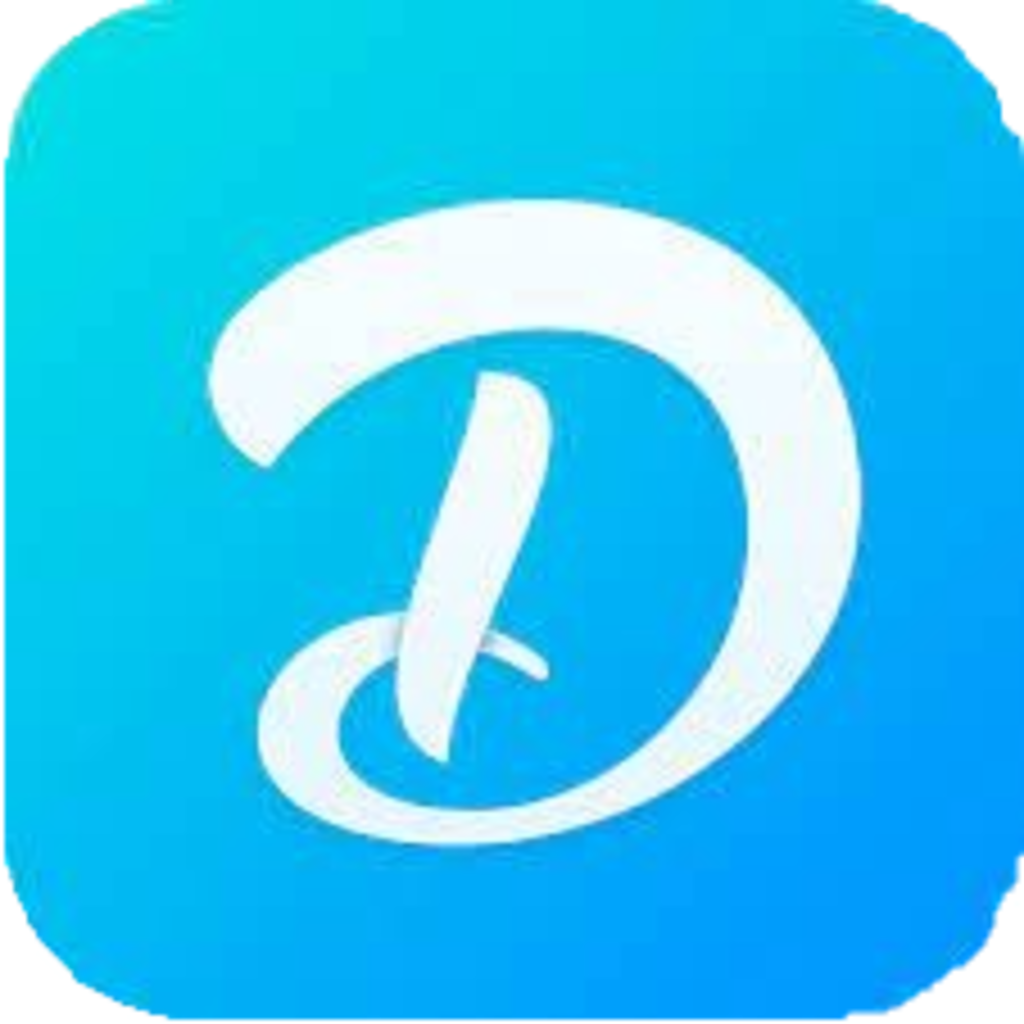
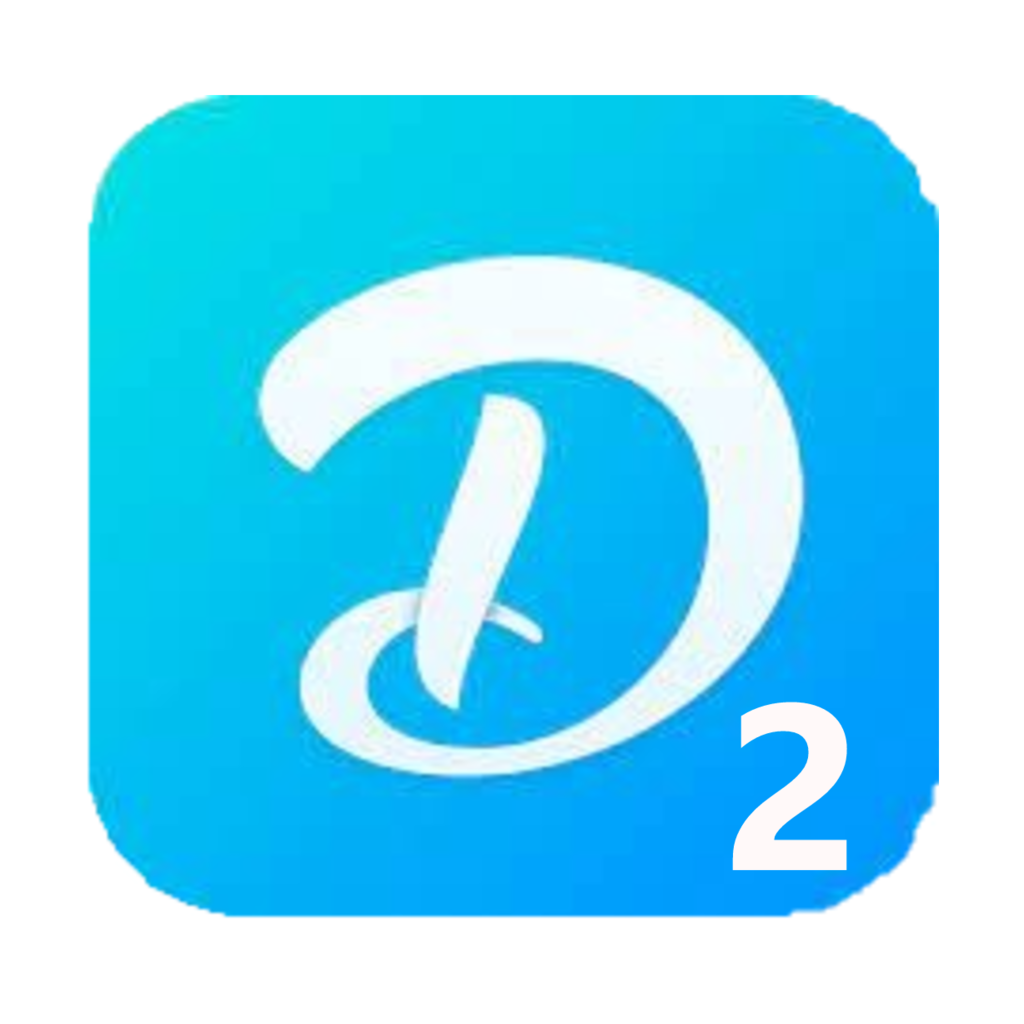
Made by Junaid

diff --git a/screens/HomeScreen.js b/screens/HomeScreen.js
@@ -1,5 +1,6 @@
 import React from 'react';
 import { View  , Text , TouchableOpacity , TextInput , StyleSheet} from 'react-native';
+import dictionary from '../database';
 
 class HomeScreen extends React.Component{
     constructor() {
@@ -14,51 +15,25 @@ class HomeScreen extends React.Component{
         };
       }
     
-      getWord=(word)=>{
-        var searchKeyword=word.toLowerCase()
-        var url = "https://rupinwhitehatjr.github.io/dictionary/" + searchKeyword + ".json"
-      
-        return fetch(url)
-        .then((data)=>{
-          if(data.status === 200)
-          {
-            return data.json();
-          }
-          else
-          {
-            return null;
-            alert("Please check your connection " + data.status);
-          }
-        })
-        .then((response)=>{
-    
-            var responseObject = response;
-           
-            if(responseObject)
-            {
-              var wordData = responseObject.definitions[0];
-            
-              var definition=wordData.description;
-              var lexicalCategory=wordData.wordtype;
-              this.setState({
-                "word" : this.state.text, 
-                "definition" :definition,
-                "lexicalCategory": lexicalCategory     
-                
-              });
-            }
-            else
-            {
-              this.setState({
-                "word" : this.state.text, 
-                "definition" :"Not Found",
-                
-              });
-    
-            }
-        
-        });
-      }
+      getWord = (text) => {
+        var text = text.toLowerCase();
+        try {
+          var word = dictionary[text]['word'];
+          var lexicalCategory = dictionary[text]['lexicalCategory'];
+          var definition = dictionary[text]['definition'];
+          this.setState({
+            word: word,
+            lexicalCategory: lexicalCategory,
+            definition: definition,
+          });
+        } catch (err) {
+          alert('Oh no!😓This word is not available in our dictionary ');
+          this.setState({
+            text: '',
+            isSearchPressed: false,
+          });
+        }
+      };
     render(){
     return(
         <View style={styles.container}>
@@ -92,7 +67,7 @@ class HomeScreen extends React.Component{
                       Word :{" "}
                     </Text>
                     <Text style={{fontSize:18 }}>
-                      {this.state.word}
+                      {this.state.text}
                     </Text>
                   </View>
                   <View style={styles.detailsContainer}>
@@ -119,7 +94,7 @@ class HomeScreen extends React.Component{
 
 
 <View style={styles.credits}>
-<Text>Dictionary App : Online Version</Text>
+<Text>Dictionary App : Offline Version</Text>
 <Text style={styles.creditsText}>App made by Junaid</Text>
 </View>
         </View>
@@ -161,7 +136,8 @@ const styles = StyleSheet.create({
     },
     outputContainer:{
         flex:0.7,
-        alignItems:'center'
+        alignItems:'center',
+        marginTop:2
       },
       detailsContainer:{
         flexDirection:'row',
@@ -173,7 +149,7 @@ const styles = StyleSheet.create({
         fontWeight:'bold'
       },
       credits:{
-        marginTop:370,
+        marginTop:230,
         alignItems:"center"
       },
       creditsText:{

diff --git a/database.js b/database.js
@@ -1,0 +1,59 @@
+const dictionary = {
+  "the" : {
+    "word" : "the",
+    "lexicalCategory":"Determiner",
+    "definition" : "denoting one or more people or things already mentioned or assumed to be common knowledge."
+  },
+  "india" : {
+    "word" : "India",
+    "lexicalCategory":"Noun",
+    "definition" :"a country in southern Asia occupying the greater part of the Indian subcontinent; population 1,311,000,000 (estimated 2015); official languages, Hindi and English (fourteen other languages are recognized as official in certain regions; of these, Bengali, Gujarati, Marathi, Tamil, Telugu, and Urdu have most first-language speakers); capital, New Delhi."
+  },
+  "externally" : {
+    "word" : "externally",
+    "lexicalCategory":"Adverb",
+    "definition" : "with reference to the outer surface or structure of something; outside"
+  },
+  "hello" : {
+    "word" : "hello",
+    "lexicalCategory":"Interjection",
+    "definition" : "used as a greeting or to begin a telephone conversation"
+  },
+  "welcome" : {
+    "word" : "welcome",
+    "lexicalCategory":"Noun",
+    "definition" : "an instance or manner of greeting someone"
+  },
+  "almost" : {
+    "word" : "almost",
+    "lexicalCategory":"Adverb",
+    "definition" : "not quite; very nearly"
+  },
+  "she" : {
+    "word" : "she",
+    "lexicalCategory":"Pronoun",
+    "definition" : "used to refer to a woman, girl, or female animal previously mentioned or easily identified"
+  },
+  "tree" : {
+    "word" : "tree",
+    "lexicalCategory":"Noun",
+    "definition" : "a woody perennial plant, typically having a single stem or trunk growing to a considerable height and bearing lateral branches at some distance from the ground."
+  },
+  "wonderful" : {
+    "word" : "wonderful",
+    "lexicalCategory":"Adjective",
+    "definition" : "inspiring delight, pleasure, or admiration; extremely good; marvellous"
+  },
+  "ordinary" : {
+    "word" : "ordinary",
+    "lexicalCategory":"Adjective",
+    "definition" : "with no special or distinctive features; normal"
+  },
+  "junaid" : {
+    "word" : "junaid",
+    "lexicalCategory":"None",
+    "definition" : "Junaid is a teenager , Who likes coding. He made cusor.js , ShowData.js ,  junaid-app-store(Online App uploading platform for free),\nJunaid-web-hosting(Online Web Hosting Platform),Junaid-app-hosting(It is a branch of Junaid-web-hosting) , Flight Simulator(Online 2D Simulator and Game) , DictionaryApp (Online Version) , DictionaryApp 2 (Offline Version of DictionaryApp)"
+  }
+}
+
+export default dictionary

diff --git a/AppHeader.js b/AppHeader.js
@@ -5,7 +5,7 @@ class AppHeader extends React.Component{
   render(){
     return(
       <View style= {styles.textContainer}>
-        <Text style={styles.text}>Dictionary App</Text>
+        <Text style={styles.text}>Dictionary App 2</Text> 
       </View>
     );
   }

diff --git a/README.md b/README.md
@@ -1,0 +1,12 @@
+# Dictionary App 2
+Dictionary App 2 is the offline version of Dictionary App.
+
+![Icon of Dictionary App 2](assets\icon.png) 
+
+This app is a pocket Dictionary App which runs offline.
+
+- See Dictionary App github repository : 
+> [https://github.com/junaidcodingmaster/Dictionary-App-2](https://github.com/junaidcodingmaster/Dictionary-App-2)
+
+- Download Dictionary App 2 :
+> [link](#)  
